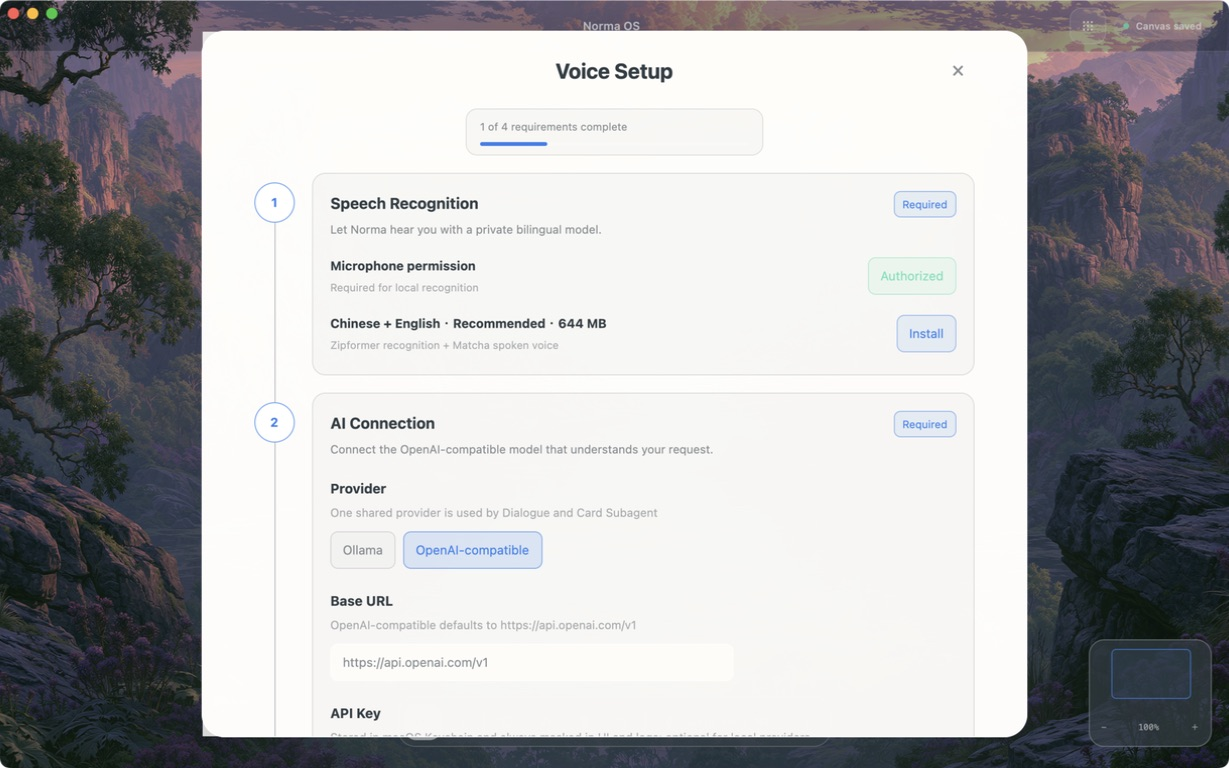
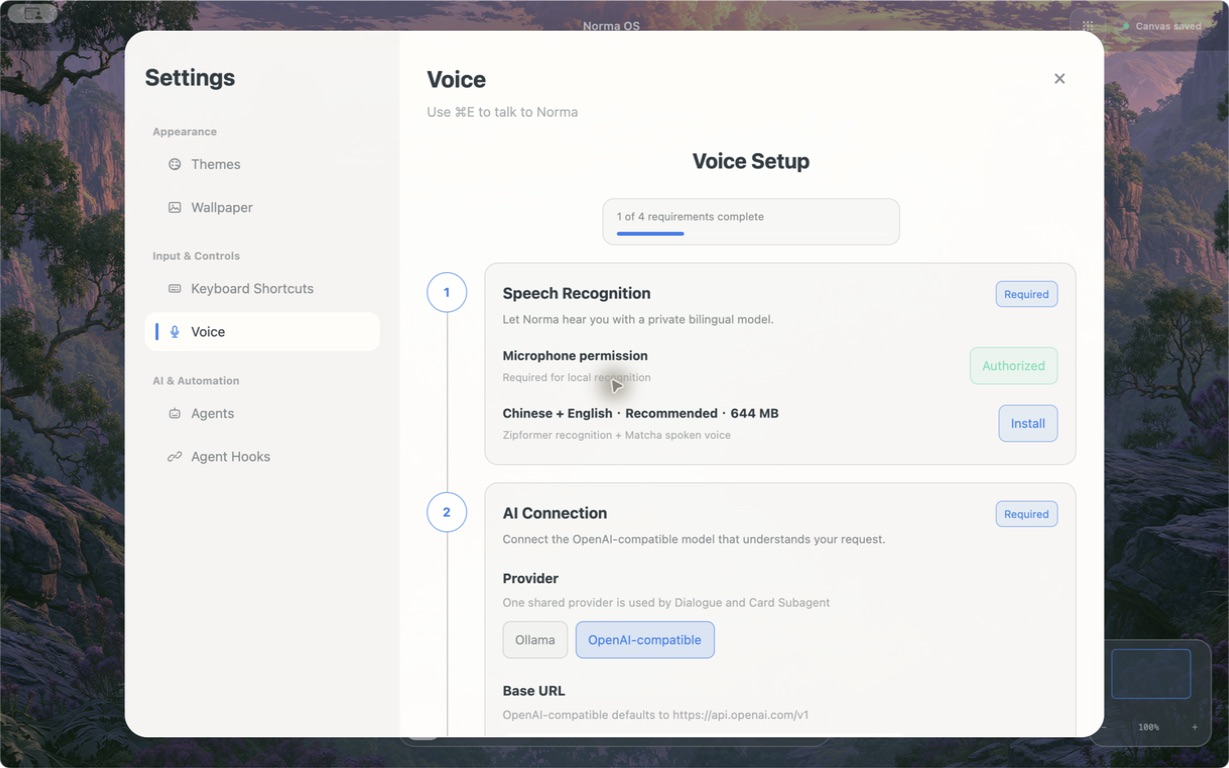
fix(voice): embed setup in settings panel

diff --git a/crates/e2e/src/e2e_03_voice_setup.rs b/crates/e2e/src/e2e_03_voice_setup.rs
@@ -1,6 +1,8 @@
 use gpui::{Modifiers, TestAppContext};
 
-use crate::harness::{echo_factory, enter_canvas, make_app, VoiceTranscriptEnvGuard};
+use crate::harness::{
+    echo_factory, enter_canvas, make_app, VoiceModelInstallE2eGuard, VoiceTranscriptEnvGuard,
+};
 
 /// Voice 尚未配置时按下 Cmd+E：必须打开 Settings → Voice 设置页，且不得开始录音
 ///
@@ -310,6 +312,7 @@ fn ready_voice_page_can_review_setup_and_return() {
 ///   TTS package = 79,033,838 + 53,882,848 = 132,916,686 bytes ≈ 133 MB
 ///   推荐包总量 = 511,274,346 + 132,916,686 = 644,191,032 bytes ≈ 644 MB
 ///   麦克风和 Provider 通过稳定测试缝预置为 Ready
+///   model root = workspace/models（与用户模型和其他测试隔离）
 ///
 /// 执行过程（逐步说明系统如何处理）：
 ///   1. 启用 ASR/TTS 假传输，避免测试依赖公网与真实模型文件
@@ -322,11 +325,16 @@ fn ready_voice_page_can_review_setup_and_return() {
 ///   - 负断言：最终入口不得仍为 set_up 或 setting_up
 #[test]
 fn recommended_package_installs_and_selects_all_required_local_models() {
+    let _install_guard = VoiceModelInstallE2eGuard::acquire();
     let mut cx = TestAppContext::single();
     let (app, cx) = make_app(&mut cx, echo_factory());
     let workspace = tempfile::TempDir::new().expect("Voice setup workspace should create");
     enter_canvas(&app, cx, workspace.path());
     app.update(cx, |app, _cx| app.reset_voice_setup_for_e2e());
+    app.update(cx, |app, cx| {
+        app.set_voice_model_root_for_e2e(workspace.path().join("models"), cx)
+    });
+    cx.run_until_parked();
     app.update(cx, |app, _cx| {
         app.set_voice_setup_install_fakes_for_e2e(true)
     });
@@ -389,6 +397,7 @@ fn recommended_package_installs_and_selects_all_required_local_models() {
 ///   TTS fake completion = held until Settings closes
 ///   notification timeout = 5s，测试观察窗口 = 3s < 5s
 ///   expected audio starts = 0（Voice phase 保持 idle）
+///   model root = workspace/models（与用户模型和其他测试隔离）
 ///
 /// 执行过程（逐步说明系统如何处理）：
 ///   1. 打开 fresh Setup，注入麦克风与 Provider Ready
@@ -402,11 +411,16 @@ fn recommended_package_installs_and_selects_all_required_local_models() {
 ///   - 负断言：通知不得开始录音或重新打开 Settings
 #[test]
 fn background_setup_completion_shows_a_nonblocking_ready_notification() {
+    let _install_guard = VoiceModelInstallE2eGuard::acquire();
     let mut cx = TestAppContext::single();
     let (app, cx) = make_app(&mut cx, echo_factory());
     let workspace = tempfile::TempDir::new().expect("Voice setup workspace should create");
     enter_canvas(&app, cx, workspace.path());
     app.update(cx, |app, _cx| app.reset_voice_setup_for_e2e());
+    app.update(cx, |app, cx| {
+        app.set_voice_model_root_for_e2e(workspace.path().join("models"), cx)
+    });
+    cx.run_until_parked();
     app.update(cx, |app, _cx| {
         app.set_voice_setup_install_fakes_for_e2e(true)
     });

diff --git a/crates/app/src/settings/panel.rs b/crates/app/src/settings/panel.rs
@@ -9,11 +9,9 @@ mod navigation;
 mod panel_style;
 
 use self::content::{settings_content, VoiceSettingsContent};
+pub(crate) use self::navigation::SettingsSection;
 use self::navigation::{settings_navigation, SettingsNavigationMode};
 use self::panel_style::{settings_shadow, with_alpha};
-use crate::settings::voice::VoiceEntryState;
-
-pub(crate) use self::navigation::SettingsSection;
 
 const PANEL_MIN_W: f32 = 860.0;
 const PANEL_MAX_W: f32 = 1280.0;
@@ -197,13 +195,8 @@ impl MultisoulApp {
         let win = window.viewport_size();
         let win_w = f32::from(win.width);
         let win_h = f32::from(win.height);
-        let voice_setup_mode = self.settings_panel.active_section == SettingsSection::Voice
-            && (!matches!(self.voice_settings.readiness(), VoiceEntryState::Ready)
-                || self.voice_settings.reviewing_setup());
         let layout = SettingsPanelLayout::for_viewport(win_w, win_h);
-        let layout = if voice_setup_mode {
-            layout.with_width_cap(win_w, 860.0)
-        } else if self.settings_panel.active_section == SettingsSection::Voice {
+        let layout = if self.settings_panel.active_section == SettingsSection::Voice {
             layout.with_width_cap(win_w, 1020.0)
         } else {
             layout
@@ -231,7 +224,6 @@ impl MultisoulApp {
             VoiceSettingsContent {
                 state: &self.voice_settings,
                 inputs: &self.voice_settings_inputs,
-                setup_mode: voice_setup_mode,
             },
             &self.wallpaper_settings,
             &self.shortcuts,
@@ -302,7 +294,7 @@ impl MultisoulApp {
                     .on_mouse_up(MouseButton::Left, |_, _, cx| cx.stop_propagation())
                     .on_click(|_, _, cx| cx.stop_propagation())
                     .on_key_down(cx.listener(Self::on_settings_panel_key_down))
-                    .when(!voice_setup_mode, |panel| panel.child(navigation))
+                    .child(navigation)
                     .child(content),
             )
     }

diff --git a/crates/e2e/src/e2e_03_voice_design.rs b/crates/e2e/src/e2e_03_voice_design.rs
@@ -12,13 +12,13 @@ use crate::harness::{echo_factory, enter_canvas, make_app};
 ///
 /// 执行过程（逐步说明系统如何处理）：
 ///   1. 创建 fresh App、进入 Canvas，并清空四项 Voice readiness
-///   2. 分发一次 `cmd-e` → 打开专注的 Voice Setup 页面
-///   3. 检查页头进度、纵向步骤轨道、三张步骤卡及底部完成操作
+///   2. 分发一次 `cmd-e` → 打开 Settings → Voice 内的 Setup 内容
+///   3. 检查 Settings 侧栏、Voice 页头、页内进度、纵向步骤轨道和三张步骤卡
 ///   4. 检查麦克风操作位于 Speech Recognition 内，AI Connection 无需展开即可配置
 ///
 /// 预期结果：
-///   - 正断言：三步、四项进度、麦克风动作、模型安装、Provider 连接和 Finish 均可见
-///   - 负断言：Setup 不显示 Settings 导航，也不再渲染独立的第四张麦克风卡
+///   - 正断言：Voice Settings 外壳、三步、四项进度和全部必需操作均可见
+///   - 负断言：Setup 不得脱离 Settings 外壳，也不再渲染独立的第四张麦克风卡
 #[test]
 fn fresh_voice_setup_matches_the_approved_three_step_visual_structure() {
     let mut cx = TestAppContext::single();
@@ -71,8 +71,12 @@ fn fresh_voice_setup_matches_the_approved_three_step_visual_structure() {
         "the setup flow must keep the approved full-width Finish Setup affordance"
     );
     assert!(
-        cx.debug_bounds("settings-sidebar-scroll").is_none(),
-        "first-run Setup must not compete with the normal Settings sidebar"
+        cx.debug_bounds("settings-sidebar-scroll").is_some(),
+        "first-run Setup must remain inside the normal Settings sidebar shell"
+    );
+    assert!(
+        cx.debug_bounds("settings-section-voice").is_some(),
+        "first-run Setup must keep Voice selected in the Settings navigation"
     );
     assert!(
         cx.debug_bounds("voice-setup-requirement-microphone")

diff --git a/crates/e2e/src/e2e_03_voice_setup_cancel.rs b/crates/e2e/src/e2e_03_voice_setup_cancel.rs
@@ -1,6 +1,6 @@
 use gpui::{Modifiers, TestAppContext};
 
-use crate::harness::{echo_factory, enter_canvas, make_app};
+use crate::harness::{echo_factory, enter_canvas, make_app, VoiceModelInstallE2eGuard};
 
 /// 推荐语音包取消：一次点击必须同时停止仍活跃的本地模型任务，并回到可重试设置态
 ///
@@ -9,6 +9,7 @@ use crate::harness::{echo_factory, enter_canvas, make_app};
 ///   ASR fake = immediate completion
 ///   TTS fake = held installation（保证取消按钮可观察）
 ///   cancel clicks = 1
+///   model root = workspace/models（与用户模型和其他测试隔离）
 ///
 /// 执行过程（逐步说明系统如何处理）：
 ///   1. 打开 fresh Voice Setup，并注入麦克风与 Provider Ready
@@ -21,11 +22,16 @@ use crate::harness::{echo_factory, enter_canvas, make_app};
 ///   - 负断言：入口不得保持 setting_up 或错误进入 Ready
 #[test]
 fn recommended_voice_package_can_be_cancelled_and_retried() {
+    let _install_guard = VoiceModelInstallE2eGuard::acquire();
     let mut cx = TestAppContext::single();
     let (app, cx) = make_app(&mut cx, echo_factory());
     let workspace = tempfile::TempDir::new().expect("Voice cancel workspace should create");
     enter_canvas(&app, cx, workspace.path());
     app.update(cx, |app, _cx| app.reset_voice_setup_for_e2e());
+    app.update(cx, |app, cx| {
+        app.set_voice_model_root_for_e2e(workspace.path().join("models"), cx)
+    });
+    cx.run_until_parked();
     app.update(cx, |app, _cx| {
         app.set_voice_setup_install_fakes_for_e2e(true)
     });

diff --git a/crates/app/src/settings/voice/view/setup.rs b/crates/app/src/settings/voice/view/setup.rs
@@ -37,7 +37,7 @@ pub(super) fn voice_setup(
         .flex_col()
         .items_center()
         .gap(px(18.0))
-        .child(setup_title_bar(theme, cx))
+        .child(setup_title_bar(theme))
         .child(setup_progress(theme, completed))
         .child(
             div()
@@ -125,9 +125,8 @@ impl MultisoulApp {
     }
 }
 
-fn setup_title_bar(theme: Theme, cx: &mut Context<MultisoulApp>) -> Div {
+fn setup_title_bar(theme: Theme) -> Div {
     div()
-        .relative()
         .w_full()
         .h(px(42.0))
         .flex()
@@ -141,26 +140,6 @@ fn setup_title_bar(theme: Theme, cx: &mut Context<MultisoulApp>) -> Div {
                 .font_weight(FontWeight::BOLD)
                 .text_color(rgba(theme.text_primary))
                 .child("Voice Setup"),
-        )
-        .child(
-            div()
-                .id("settings-close")
-                .debug_selector(|| "settings-close".to_string())
-                .absolute()
-                .right(px(0.0))
-                .top(px(2.0))
-                .w(px(34.0))
-                .h(px(34.0))
-                .flex()
-                .items_center()
-                .justify_center()
-                .rounded(px(17.0))
-                .text_size(px(22.0))
-                .text_color(rgba(theme.text_secondary))
-                .cursor_pointer()
-                .hover(move |style| style.bg(rgba(with_alpha(theme.destructive, 0x10))))
-                .on_click(cx.listener(|app, _, _window, cx| app.close_settings_panel(cx)))
-                .child("×"),
         )
 }
 

diff --git a/crates/app/src/settings/content.rs b/crates/app/src/settings/content.rs
@@ -17,7 +17,6 @@ use self::keyboard::keyboard_settings;
 pub(super) struct VoiceSettingsContent<'a> {
     pub(super) state: &'a VoiceSettingsState,
     pub(super) inputs: &'a VoiceSettingsInputs,
-    pub(super) setup_mode: bool,
 }
 
 pub(super) fn settings_content(
@@ -38,9 +37,7 @@ pub(super) fn settings_content(
         .flex()
         .flex_col()
         .bg(rgba(with_alpha(theme.panel_high, 0xd4)))
-        .when(!voice.setup_mode, |content| {
-            content.child(content_header(theme, panel.active_section, cx))
-        })
+        .child(content_header(theme, panel.active_section, cx))
         .child(
             div()
                 .id("settings-content-scroll")
@@ -50,8 +47,7 @@ pub(super) fn settings_content(
                 .min_h(px(0.0))
                 .overflow_y_scroll()
                 .overflow_x_hidden()
-                .px(px(if voice.setup_mode { 54.0 } else { 28.0 }))
-                .pt(px(if voice.setup_mode { 20.0 } else { 0.0 }))
+                .px(px(28.0))
                 .pb(px(40.0))
                 .child(match panel.active_section {
                     SettingsSection::Themes => theme_appearance(theme_id, theme, cx),

diff --git a/crates/e2e/src/harness.rs b/crates/e2e/src/harness.rs
@@ -15,6 +15,21 @@ use runtime::{NodeView, PtyFactory, Runtime};
 use terminal::{GridSnapshot, PtyBackend, ScriptRule, TestPtyBackend};
 
 static VOICE_TRANSCRIPT_ENV_LOCK: std::sync::Mutex<()> = std::sync::Mutex::new(());
+static VOICE_MODEL_INSTALL_E2E_LOCK: std::sync::Mutex<()> = std::sync::Mutex::new(());
+
+pub(crate) struct VoiceModelInstallE2eGuard {
+    _lock: std::sync::MutexGuard<'static, ()>,
+}
+
+impl VoiceModelInstallE2eGuard {
+    pub(crate) fn acquire() -> Self {
+        Self {
+            _lock: VOICE_MODEL_INSTALL_E2E_LOCK
+                .lock()
+                .expect("Voice model install e2e lock should not be poisoned"),
+        }
+    }
+}
 
 pub(crate) struct VoiceTranscriptEnvGuard {
     _lock: std::sync::MutexGuard<'static, ()>,

diff --git a/docs/product-specs/2026-07-18-SPEC-simplified-voice-settings-and-setup.md b/docs/product-specs/2026-07-18-SPEC-simplified-voice-settings-and-setup.md
@@ -30,7 +30,7 @@ Settings → Voice 改为任务导向的双态页面：未就绪时显示 `Set U
 
 Voice Ready 有四个硬条件：麦克风权限已授权、识别模型可用、Agent Provider 与所选模型可用、本地 TTS 模型与音色可用。TTS 是完整 Voice 业务闭环的一部分，不允许跳过 TTS 后以纯文字回复完成首次设置。
 
-首次设置复用 Settings → Voice，不新增独立向导弹窗，但进入专注式 Setup 视觉状态：隐藏普通 Settings 导航，居中显示 `Voice Setup` 标题、四项硬条件进度和三步纵向引导。三步固定映射为：
+首次设置复用 Settings → Voice，不新增独立窗口或独立向导弹窗。Setup 始终呈现在现有 Voice Settings 弹窗内容区内，保留 Settings 导航、Voice 页头和统一关闭入口；内容区显示 `Voice Setup` 标题、四项硬条件进度和三步纵向引导。三步固定映射为：
 
 1. Speech Recognition：同卡显示麦克风授权前置状态与推荐 ASR/TTS 包安装。
 2. AI Connection：显示 OpenAI-compatible 配置与连接状态。
@@ -124,7 +124,7 @@ API Key 存入 macOS Keychain。应用设置数据库只保存非敏感 Provider
 - 建立单一 Voice readiness 投影，至少表达 `SetupRequired`、`SettingUp`、`Ready` 和 `Unavailable`；`Unavailable` 必须携带可定位到麦克风、ASR、Provider 或 TTS 的失败原因，Settings 和 `⌘E` 路由消费同一投影。
 - `SetupRequired` 表示从未满足全部硬条件；`Unavailable` 表示曾经 Ready 但硬条件后来失效。不得用一个布尔 `enabled` 混合两种语义。
 - `⌘E` 路由先检查 readiness：非 Ready 时打开 Settings → Voice 并聚焦待处理项，不启动录音、持续聆听、Agent 回合或 TTS；Ready 时保持现有 Single Voice Command / Continuous Listening 路由。
-- Settings → Voice 是 Setup 与日常配置的唯一产品入口。未就绪时隐藏普通 Settings 导航并渲染专注式三步 Setup；就绪时恢复导航并渲染简化主页面；Advanced Settings 承载完整模型目录、Provider 细节和 Diagnostics。
+- Settings → Voice 是 Setup 与日常配置的唯一产品入口。未就绪时在同一 Voice Settings 弹窗内容区渲染三步 Setup，并持续保留 Settings 导航与 Voice 页头；就绪时在原位渲染简化主页面；Advanced Settings 承载完整模型目录、Provider 细节和 Diagnostics。
 - 首次 Setup 的逻辑硬条件为麦克风授权、可用 ASR、可用 Agent Provider + 模型、可用 TTS + 音色。视觉固定为三步：麦克风并入 Speech Recognition，ASR 与 TTS 可合并显示为推荐语音包，但 readiness 仍逐项判断。
 - 三步卡片必须同时呈现内容，并用左侧编号与纵向连接线表达顺序；不得回退成四张独立卡或默认折叠 Provider/TTS。`Finish Setup` 在未完成时保持不可用，Review 模式下同一位置提供返回 Ready 页的明确操作。
 - 推荐语音包固定为 `Zipformer Bilingual`、`Matcha Chinese-English` 与 `Default Bilingual Voice`。一键安装必须分别沿用受管安装、哈希校验、manifest 和原子提升边界；不得用一个新的非受管目录绕过现有模型完整性约束。
@@ -153,7 +153,7 @@ API Key 存入 macOS Keychain。应用设置数据库只保存非敏感 Provider
 - 最高层主 seam 使用现有 headless GPUI e2e：真实打开 Settings、真实点击带稳定 selector 的控件、真实发送 `⌘E` 键盘事件，并从统一 Settings/Voice e2e snapshot 观察用户可见状态。不要为每个子模块各建一套 UI 测试入口。
 - 主 e2e snapshot 扩展 readiness、待修复项、推荐语音包进度、Provider 连接阶段和凭据显示状态；测试断言外部状态与可见控件，不断言内部任务数量或私有字段布局。
 - e2e 覆盖 fresh store：底部显示 `Set up Voice`；按 `⌘E` 打开 Settings → Voice；录音、Dialogue 和 TTS 均未启动。
-- e2e 覆盖三步视觉结构与四项逻辑状态：三步编号、纵向轨道、麦克风内嵌、Provider 直接可见、底部 Finish、Ready 三行摘要均有具体正断言；独立麦克风卡、首次 Setup 侧栏和 Ready `Try Voice` 均有具体负断言。
+- e2e 覆盖三步视觉结构与四项逻辑状态：Settings 侧栏、Voice 页头、三步编号、纵向轨道、麦克风内嵌、Provider 直接可见、底部 Finish、Ready 三行摘要均有具体正断言；独立 Setup 窗口、独立麦克风卡和 Ready `Try Voice` 均有具体负断言。
 - 麦克风权限通过现有权限 seam 注入 authorized、denied、restricted；验证授权恢复入口、Ready 门槛和 `⌘E` 不误启动。
 - 推荐语音包通过现有假模型 transport 与安装管理 seam 覆盖一次点击、双模型并行进度、单项失败、Retry、Cancel、关闭 Settings 后继续、重新打开恢复、退出后重扫和两项均选中。
 - Provider 通过本地假 OpenAI-compatible server 覆盖 endpoint 失败、认证失败、模型列表成功、模型列表不支持、手动模型验证、所选模型失效和现有配置自动通过；测试不得访问真实付费 API。
